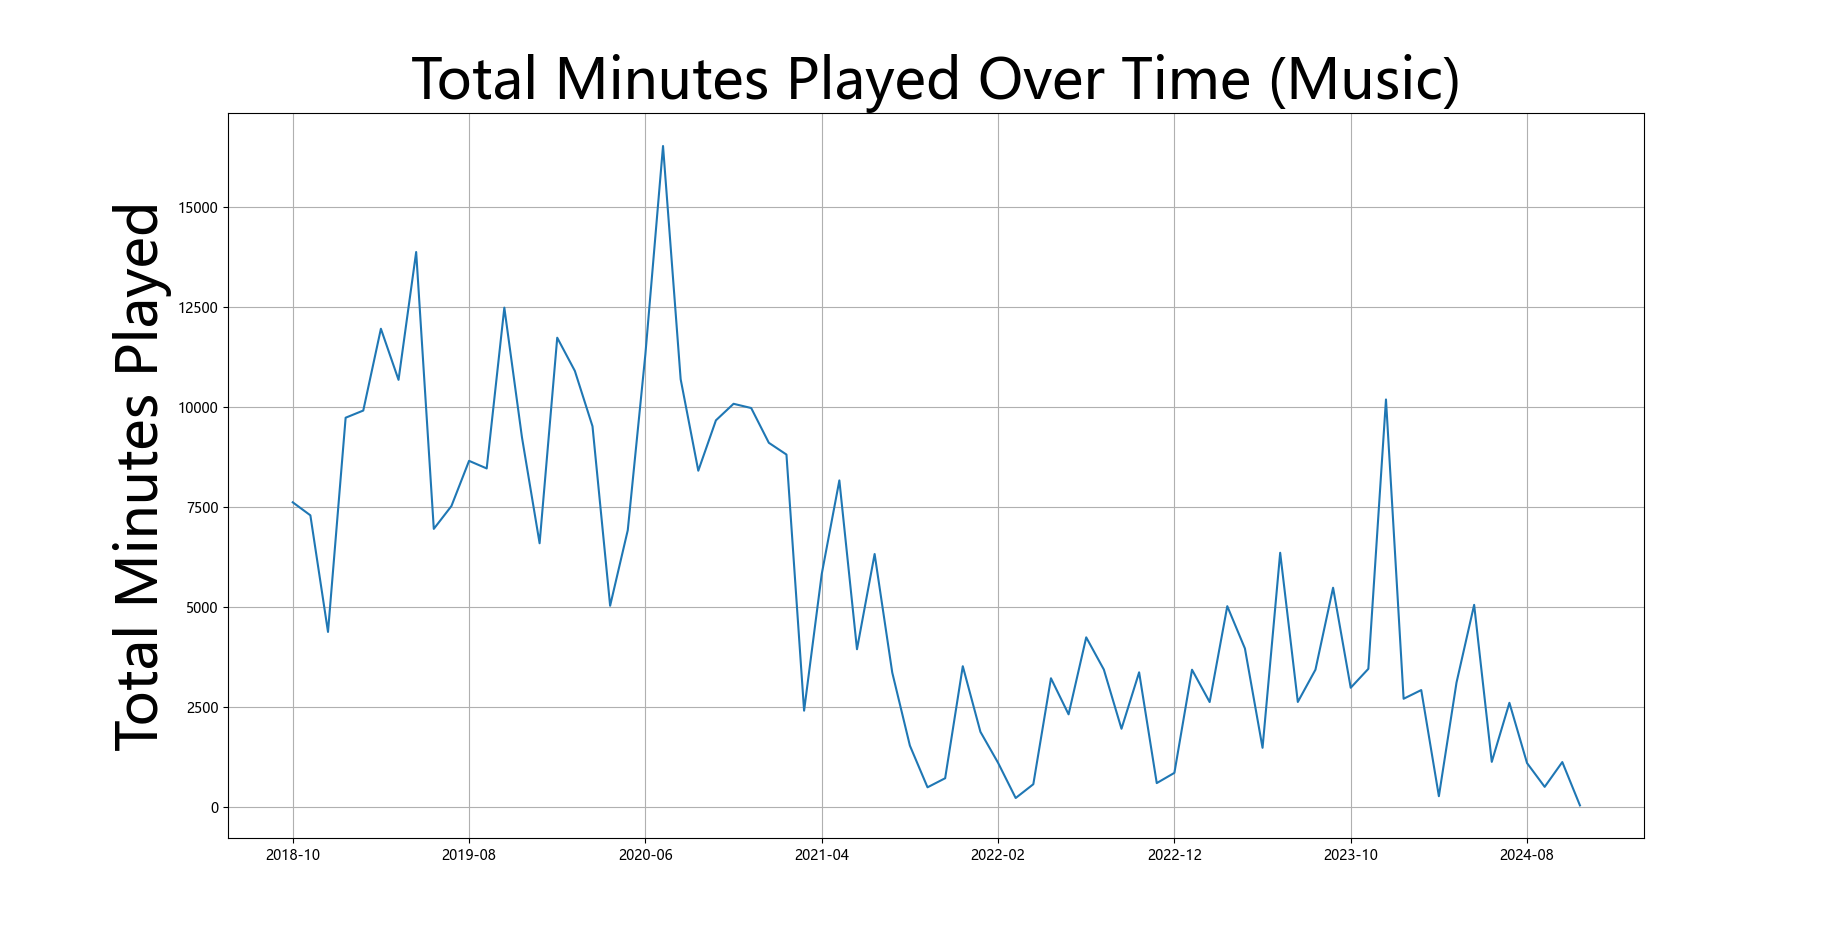
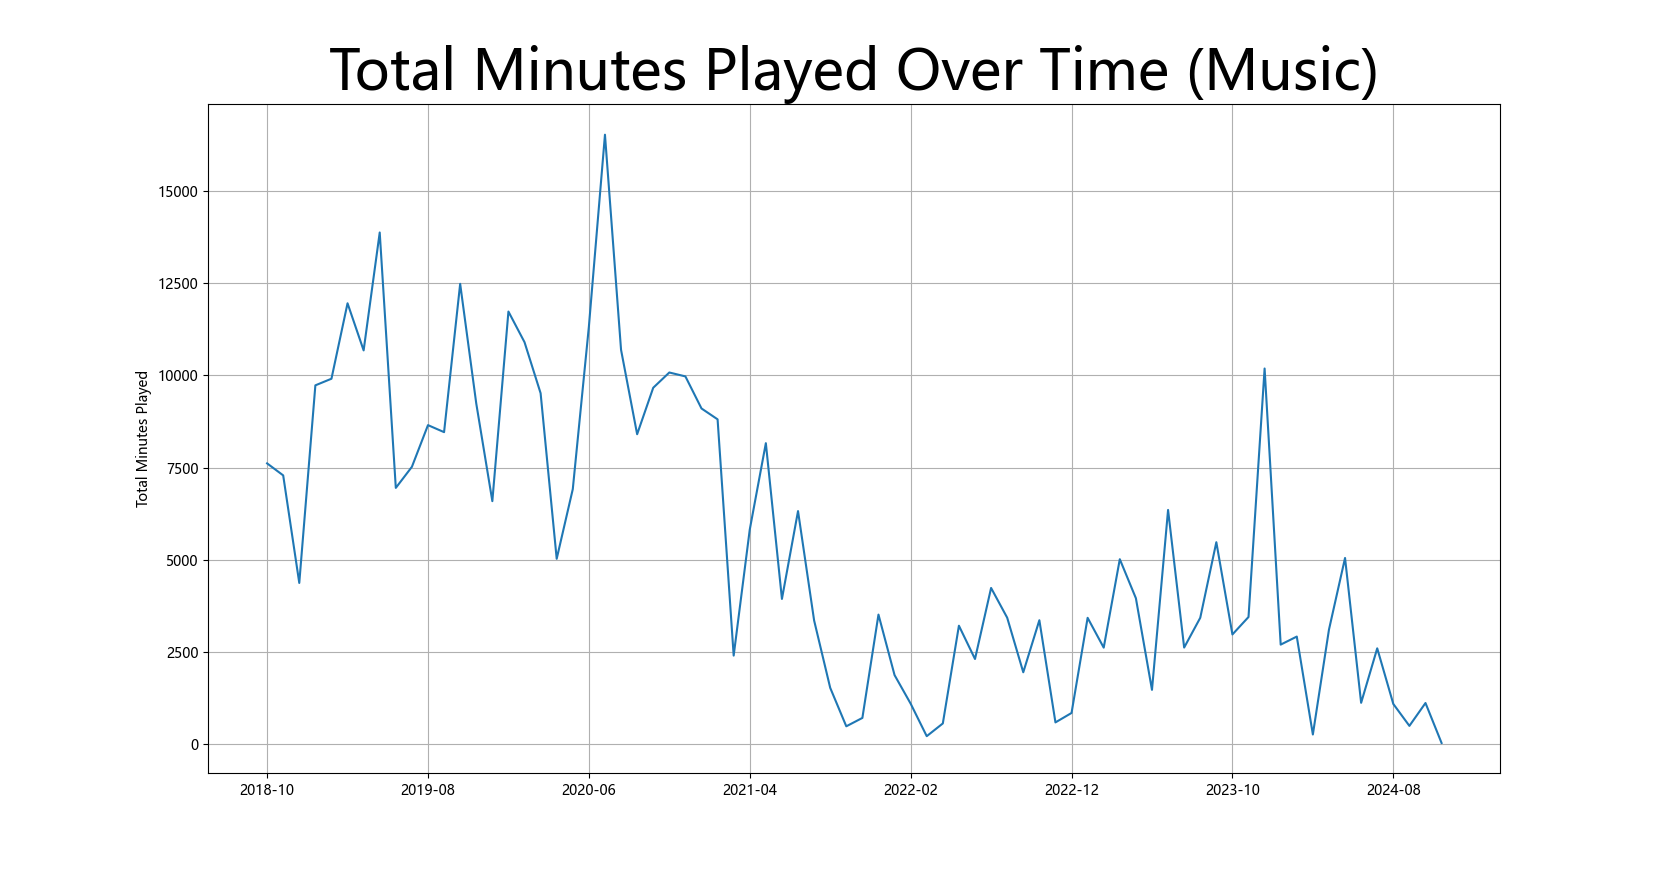
Updatree

diff --git a/3_EDA_Streaming_History.py b/3_EDA_Streaming_History.py
@@ -73,7 +73,7 @@ music_month_year_trend = music_tracks_df.groupby('month_year').sum()['minutes_pl
 music_month_year_trend.plot(figsize=(30, 20))
 plt.title('Total Minutes Played Over Time (Music)', fontsize = 40)
 plt.xlabel(None)
-plt.ylabel('Total Minutes Played', fontsize = 40)
+plt.ylabel('Total Minutes Played')
 plt.grid(True)
 plt.show()
 
